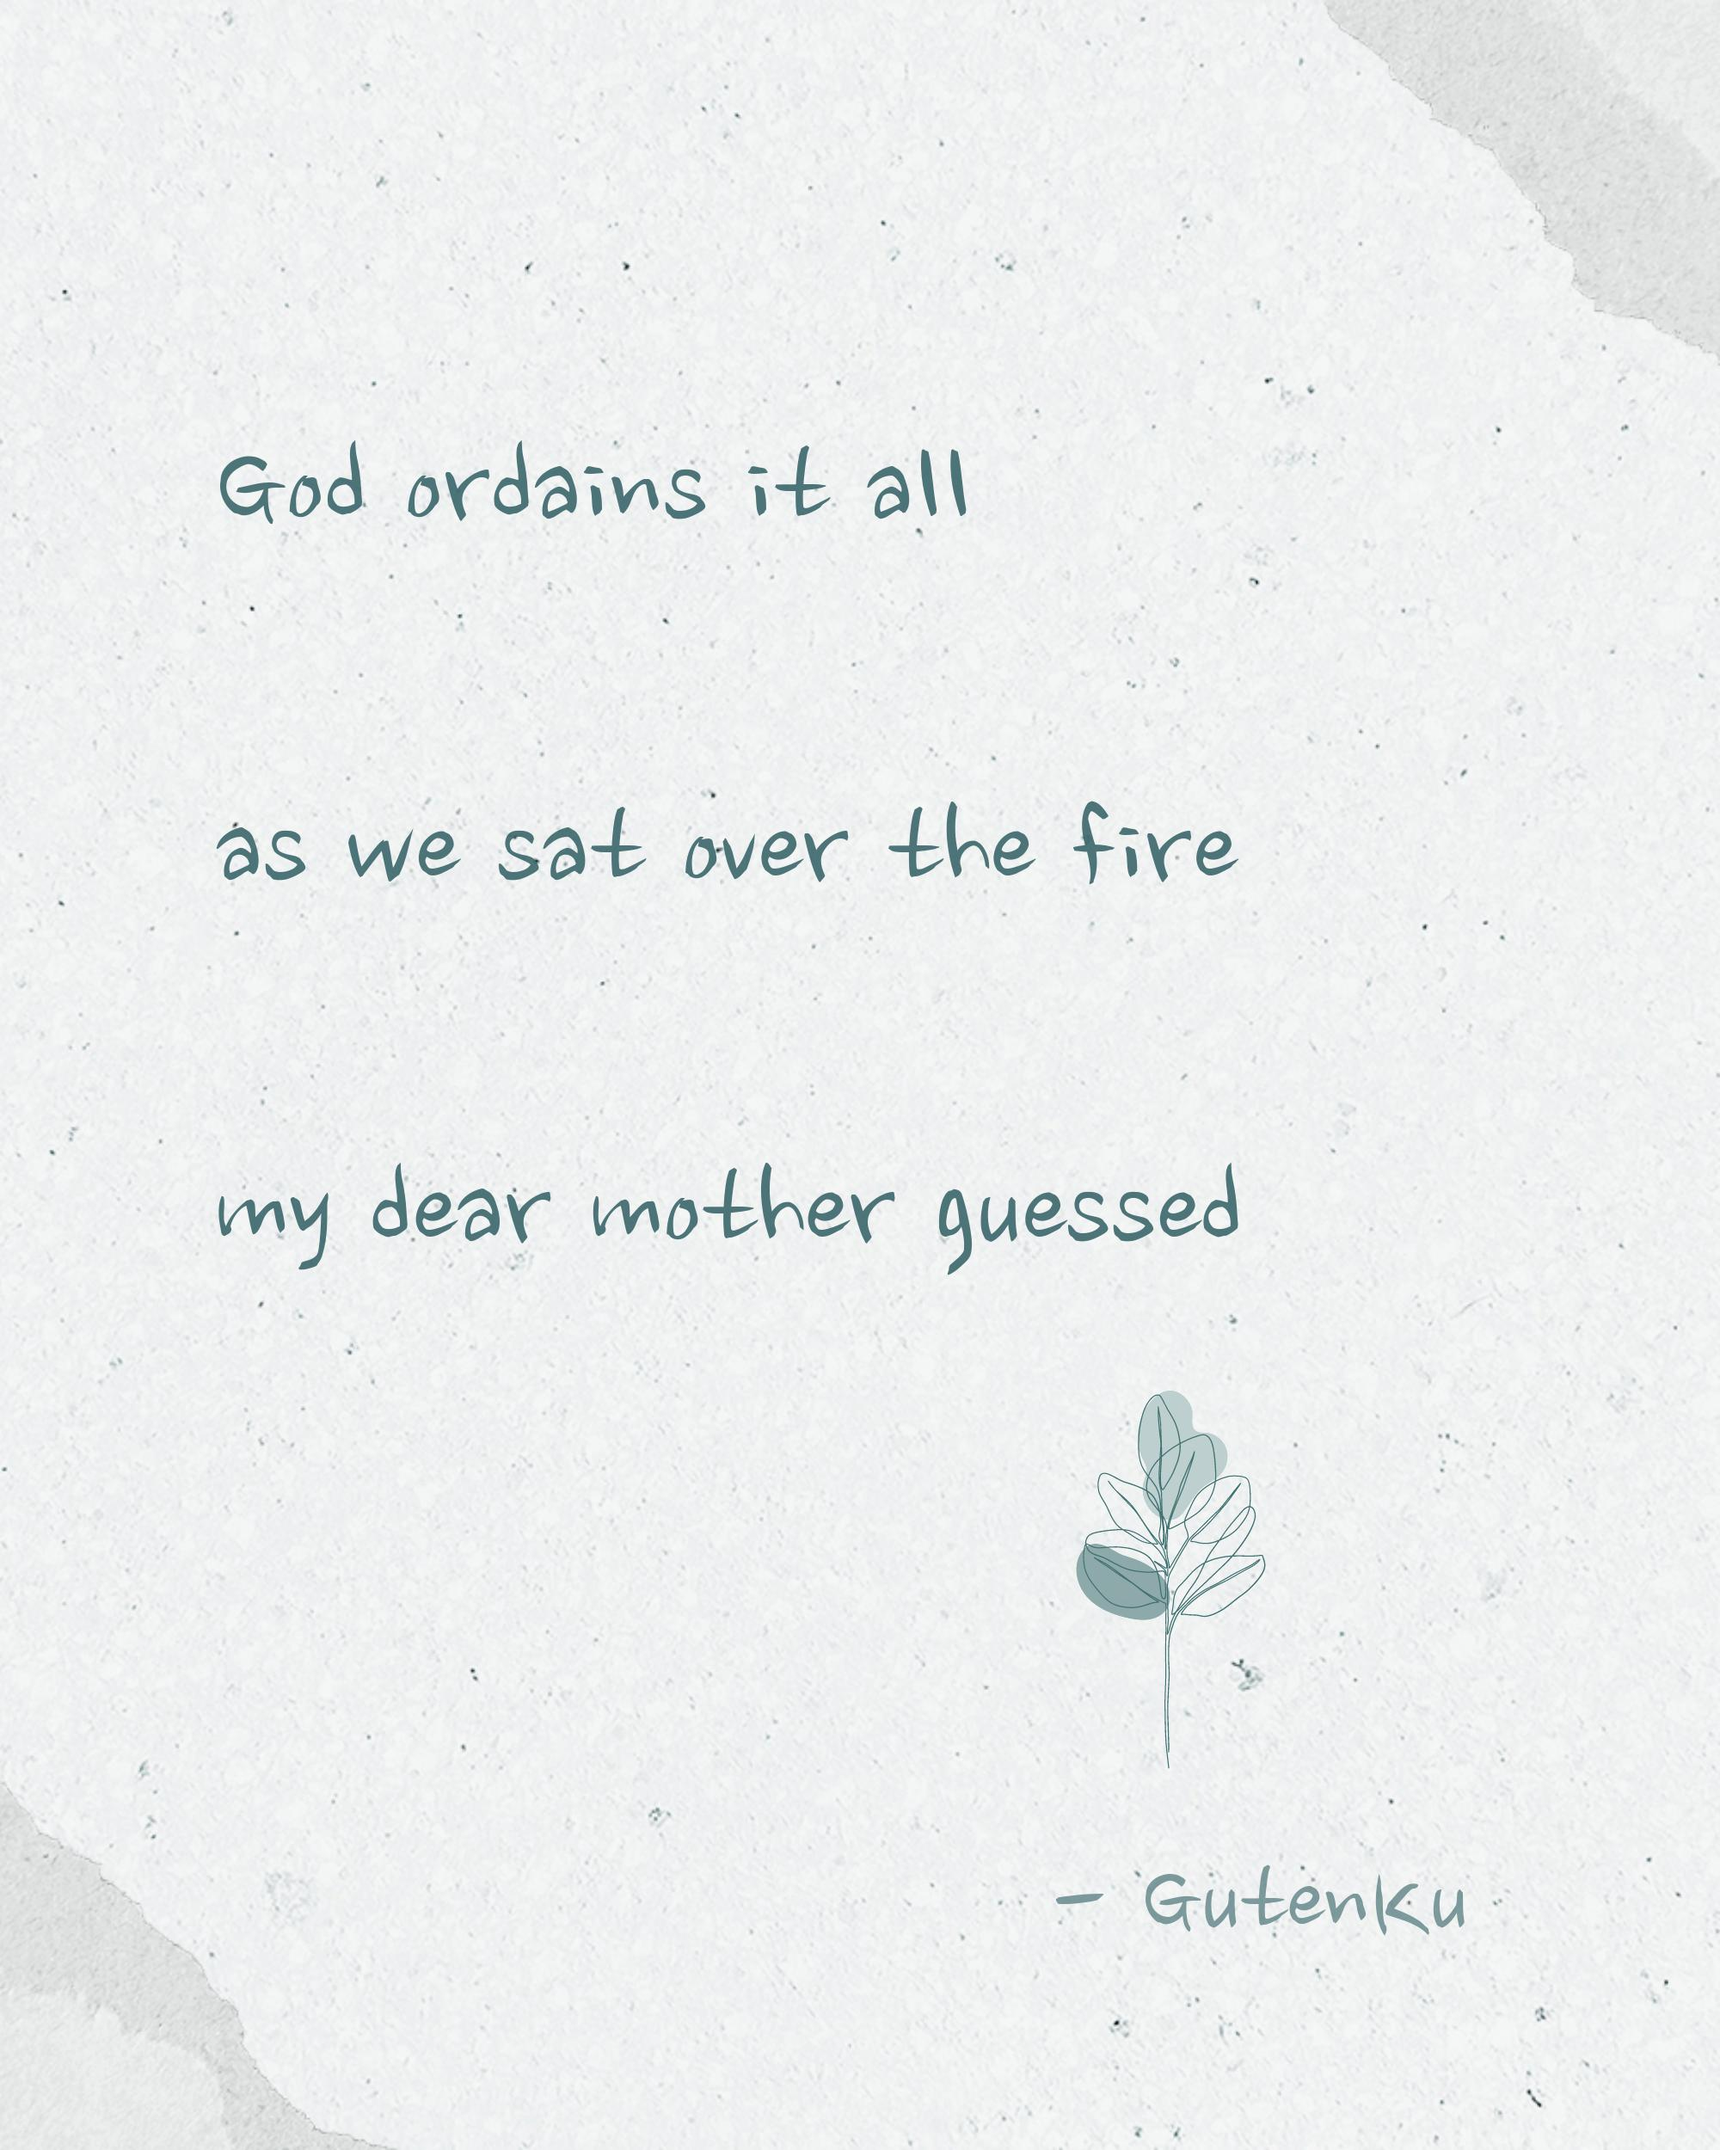
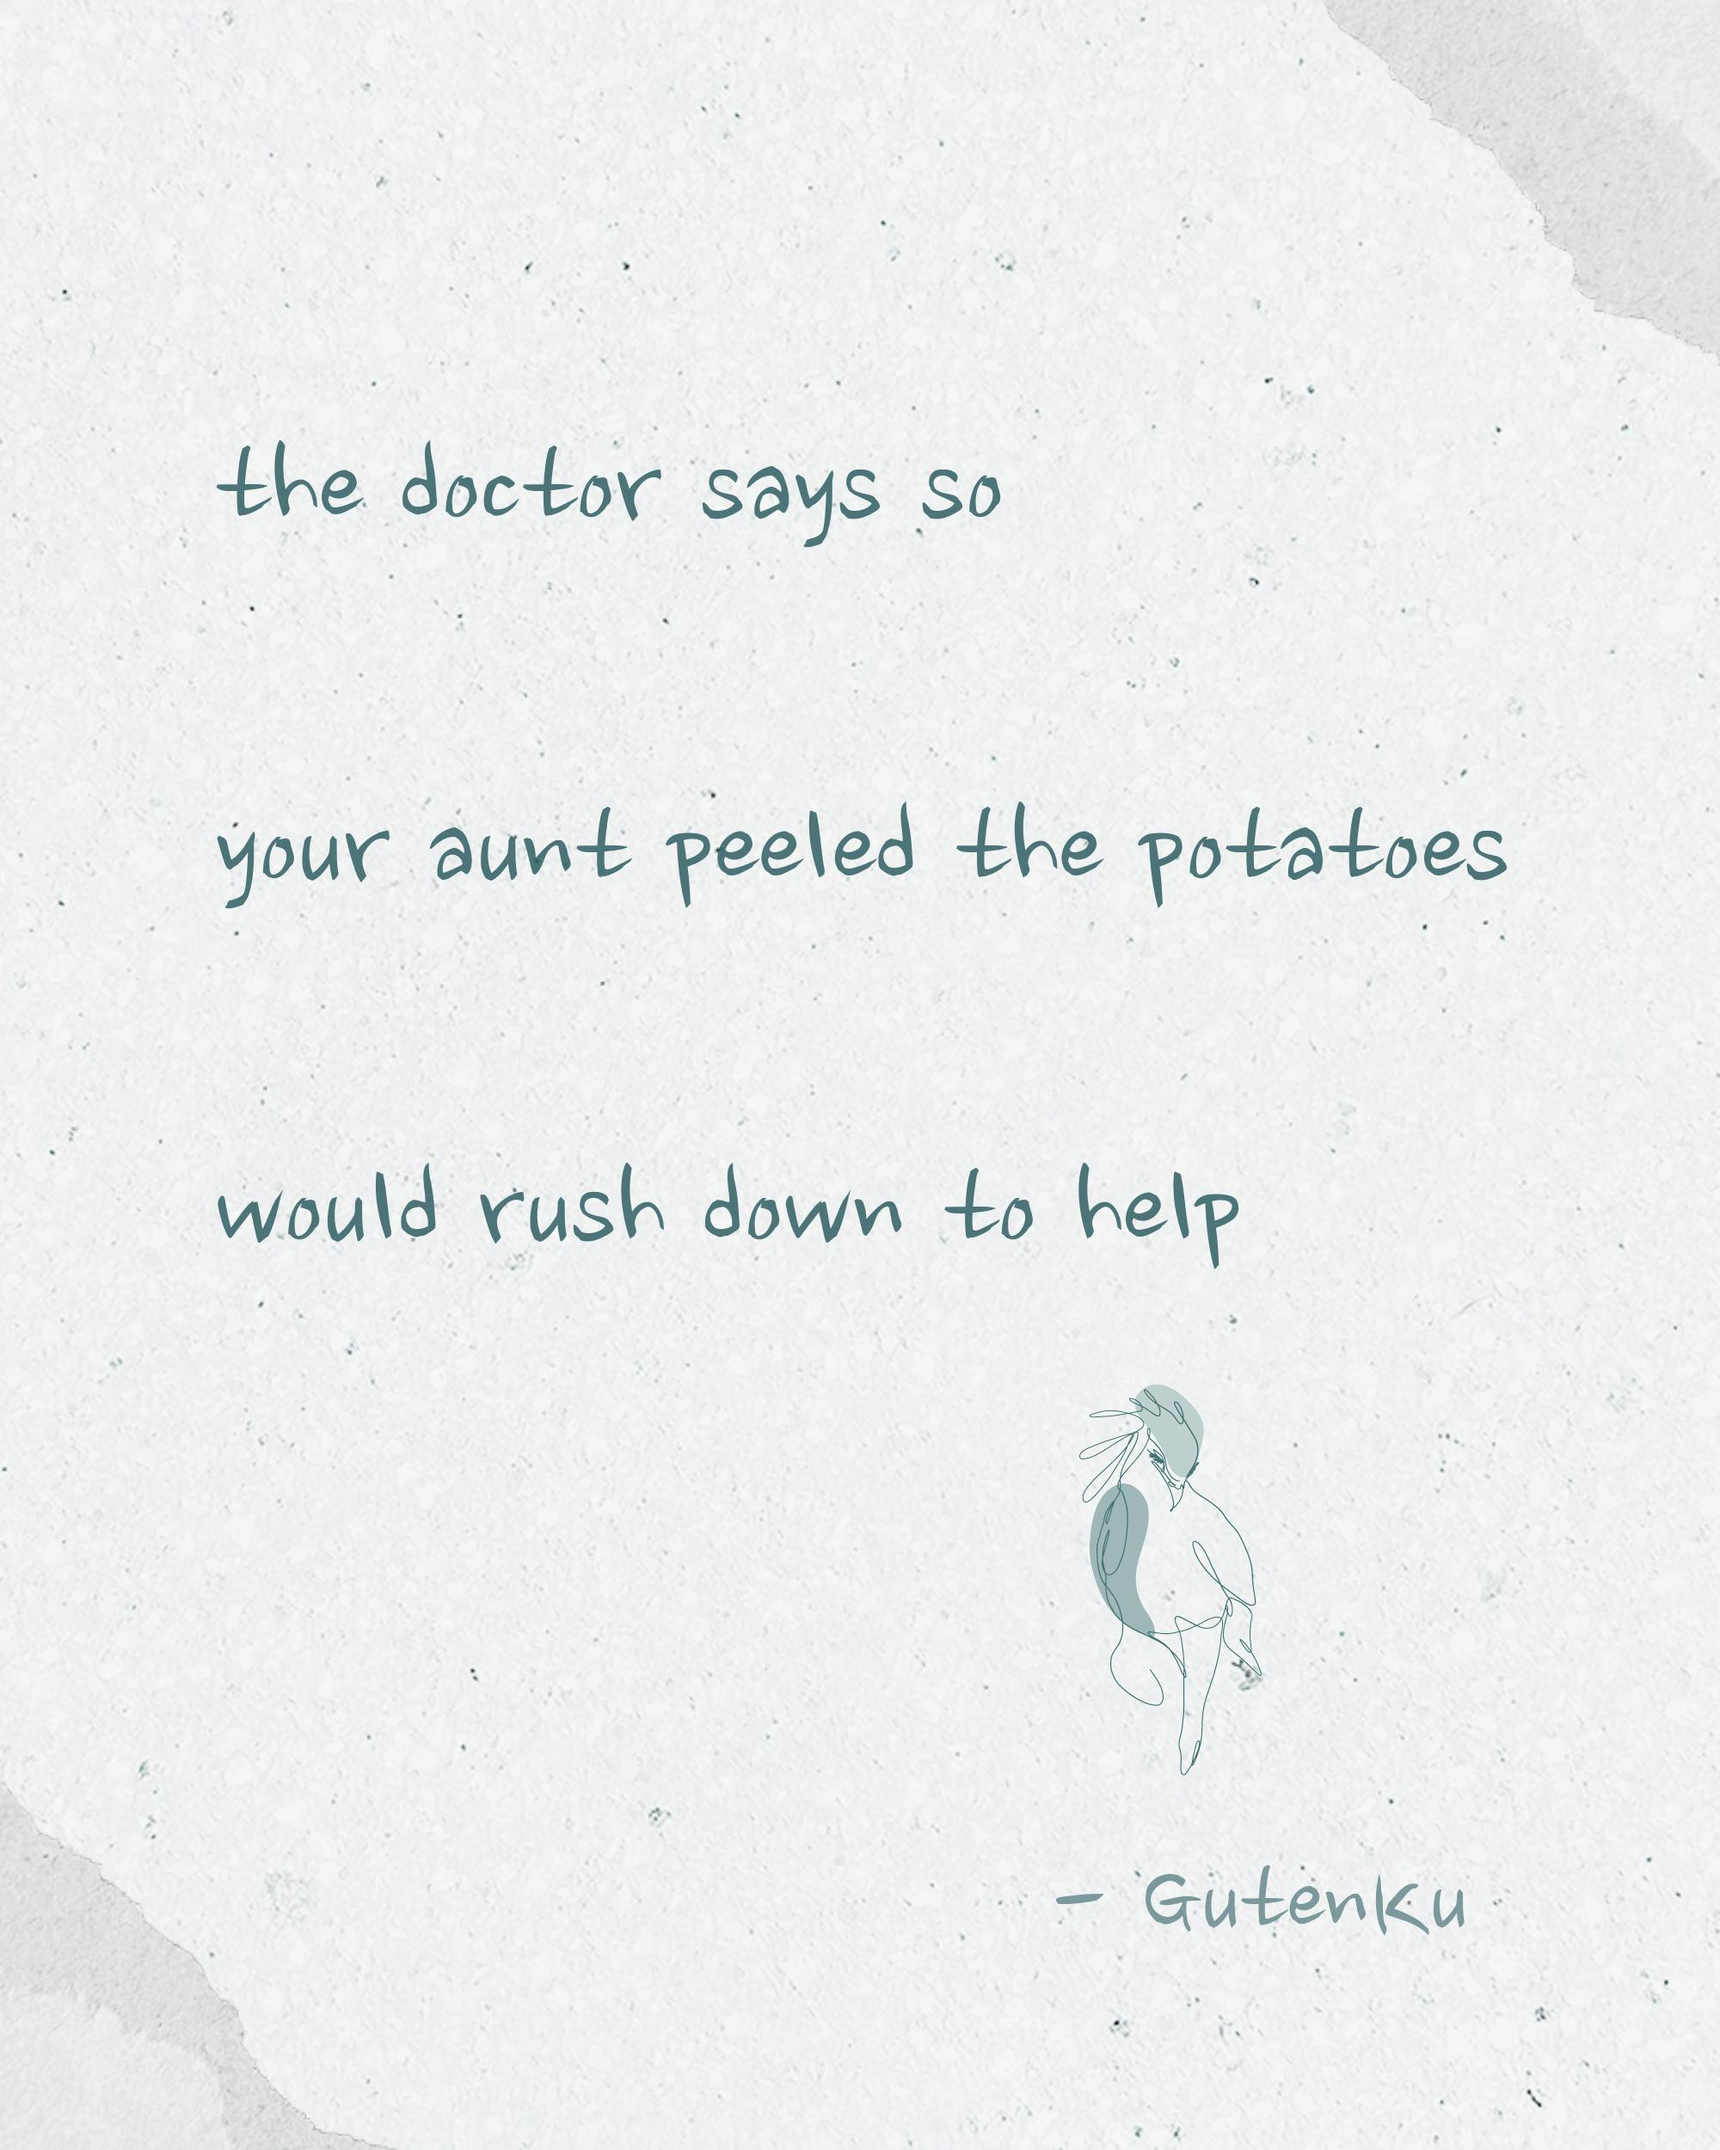
docs(readme): updated daily haiku card

diff --git a/README.md b/README.md
@@ -25,13 +25,13 @@
 <table>
 <tr>
 <td width="300" valign="top">
-<img src="/assets/img/daily_haiku_card.jpg?t=1786788032" width="280" alt="Daily Haiku Card">
+<img src="/assets/img/daily_haiku_card.jpg?t=1786874435" width="280" alt="Daily Haiku Card">
 </td>
 <td valign="top">
 
-> _"This haiku reflects a quiet, intimate moment shared between a child and their mother, seated together by the fire. The opening line, "God ordains it all," suggests a belief that every event in life is guided by a higher power or divine plan. This gives the poem a thoughtful, spiritual tone. The second line, "as we sat over the fire," creates a warm domestic setting, symbolizing comfort, closeness, and reflection. The final line, "my dear mother guessed," hints at the mother’s wisdom and intuition. She seems to understand something unspoken, perhaps about life, fate, or the speaker’s feelings. Overall, the haiku beautifully combines faith, family, and quiet insight in a brief but meaningful scene."_
+> _"This haiku feels like a fragment of everyday life, yet it carries a quiet emotional weight. The speaker seems to be in a situation shaped by illness or concern, suggested by the line "the doctor says so." Against that uncertainty, the image of "your aunt peeled the potatoes" introduces a warm, practical act of care. It is a simple domestic action, but in the context of the poem, it suggests kindness, duty, and family support. The final line, "would rush down to help," adds urgency and devotion, implying that help is needed quickly and that someone is willing to respond without hesitation. As a whole, the haiku contrasts medical authority with human compassion, showing how ordinary gestures can become deeply meaningful in times of need."_
 
-— **BotenKu** 📅 _Aug 15, 2026_
+— **BotenKu** 📅 _Aug 16, 2026_
 
 </td>
 </tr>
